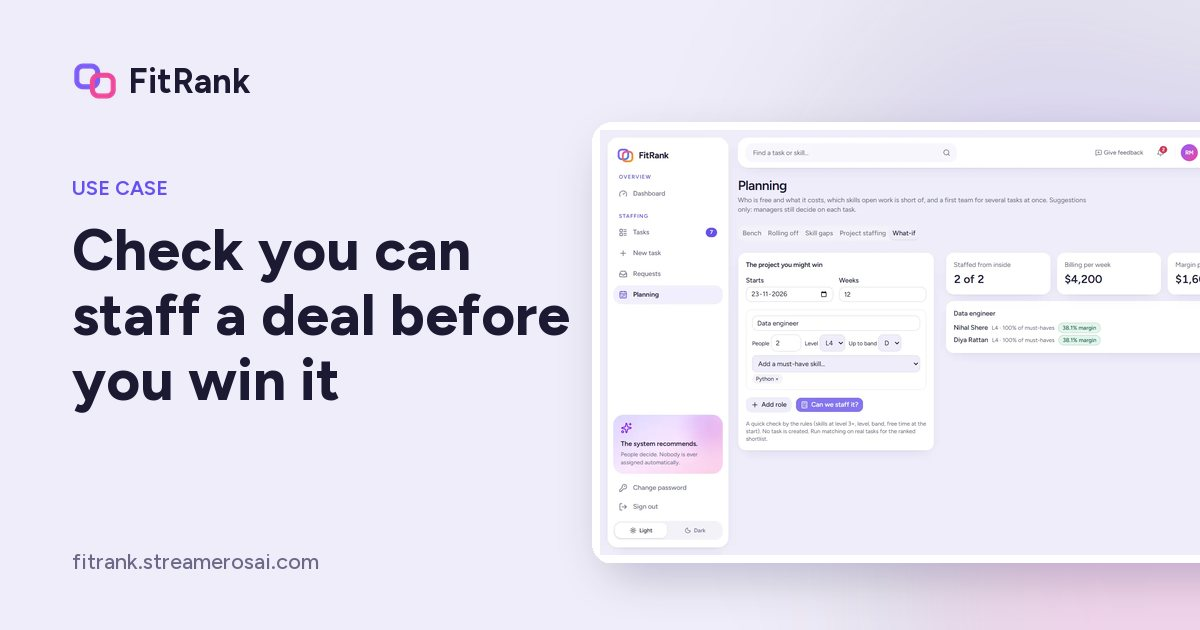
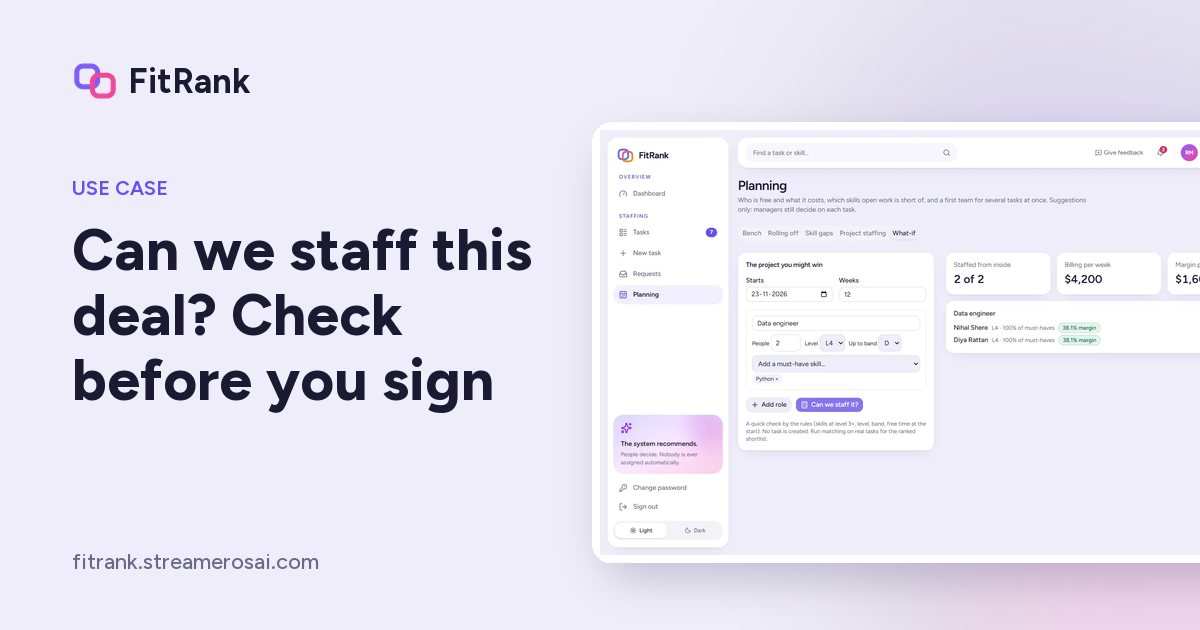
feat(use-cases): deep articles for pre-sales-staffing, fair-auditable-decisions and decision-api

Changed region(s): [[0.0617, 0.3619, 0.4933, 0.5429], [0.0617, 0.573, 0.4317, 0.6635]]

diff --git a/src/lib/usecase-articles-c.ts b/src/lib/usecase-articles-c.ts
@@ -1,0 +1,177 @@
+import type { Block } from "@/lib/blog";
+
+export const ARTICLES_C: Record<string, Block[]> = {
+  "pre-sales-staffing": [
+    { type: "tldr", text: "Before you promise a start date on a deal, check it against the people you really have: list the roles, levels, must-have skills and the date, then see who would be free and qualified by then and what the work would earn per week. FitRank's what-if check does this with rules only, in seconds, and creates nothing, so you can test as many versions of the deal as you like." },
+    { type: "h2", text: "The promise made before anyone checked" },
+    { type: "p", text: "Pre-sales and account teams are rewarded for closing, so a start date often gets agreed in the room: we can begin in six weeks. Delivery learns of it afterwards. If the bench cannot cover the roles by then, the options are a rushed hire, a late start, or borrowing people from other work. All three cost more than the check that would have prevented them." },
+    { type: "p", text: "The check is not complicated in principle. It is hard in practice because the information sits with resource managers, in a sheet or in their heads, and asking them takes a day. So the question gets skipped, or answered with optimism." },
+    { type: "h2", text: "An illustrative example: a four-role proposal" },
+    { type: "p", text: "The deal and the numbers are invented. No real client or company is described." },
+    { type: "p", text: "A prospect wants a team for a data platform project starting in six weeks and running for five months: one architect, two senior engineers and one tester. The account lead describes the roles: level, the highest cost band the deal can carry, and the must-have skills for each. The check returns that three of the four roles can be staffed from inside by the start date, with named people free in time. The architect role has nobody free and qualified until three weeks after the start." },
+    { type: "p", text: "Now the account lead has useful choices. She can propose a start date three weeks later, or open the deal with a plan to hire an architect now, or bring in a contractor for the first month. She also has the weekly billing and margin of the three staffed roles. She has made no promise yet, and nobody was reserved or alarmed by her question." },
+    { type: "h2", text: "A pre-sales check you can do by hand" },
+    { type: "ol", items: [
+      "Write the deal as roles, not as a headcount: for each, the level, the must-have skills, how many people and the highest cost you can carry.",
+      "Fix the start date and the length. A role that is free for three of five months is not free.",
+      "For each role, find who is free by the start date. Use end dates of current allocations, not hopes.",
+      "Keep only people who meet the must-have skills and level.",
+      "Count roles you can fill, and note the first date you could fill the rest.",
+      "Work out billing and margin per week from your rate card, so the commercial side sees the effect of staffing choices.",
+      "Rerun it for a different start date. The date is the cheapest lever you have.",
+    ] },
+    { type: "h2", text: "How FitRank handles it" },
+    { type: "ul", items: [
+      "You enter the start date, the length, and for each role the number of people, level, highest cost band and must-have skills.",
+      "FitRank checks who would be free and qualified in time, using rules only. That makes the answer instant and repeatable, which is what a what-if needs. The model's ranking is kept for real tasks, where a manager reviews it.",
+      "The result shows how many roles you can staff from inside, the people who could fill them, and billing and margin per week.",
+      "Nothing is created or reserved. No task is added and nobody is held, so you can try as many scenarios as you like. When the deal is won, you create the real task and run matching. See [what-if staffing for pre-sales](/features/what-if-staffing/).",
+      "For the margin, FitRank uses your rate card and margin target; salaries are not stored. See [employee value and client profiles](/features/employee-value/).",
+    ] },
+    { type: "p", text: "A what-if tells you whether a role could be staffed, not who is best for it. That needs a real task and a match run. The step from one to the other is described in [how to find the right person for an open task](/use-cases/staff-open-tasks/)." },
+    { type: "h2", text: "A checklist before you commit a date" },
+    { type: "ul", items: [
+      "Each role is written with level, must-have skills, count and cost ceiling.",
+      "Start date and length are stated, and checked against end dates of current work.",
+      "Roles that cannot be filled from inside have a plan and a date: hire, contractor or later start.",
+      "Margin per week has been looked at by someone who owns the price.",
+      "A second scenario was tried with a different start date.",
+      "Delivery was told about the possible deal before the date was agreed.",
+    ] },
+    { type: "h2", text: "Common mistakes" },
+    { type: "ul", items: [
+      "Checking headcount, not roles. Ten free people do not help if none has the skill.",
+      "Assuming people on notice or rolling off will be free. Use the dates in the system.",
+      "Reserving people for a deal that may not close. Holds become bench in disguise.",
+      "Forgetting the cost ceiling. A role you can fill only by an expensive person may not be worth taking.",
+      "Treating one yes as final. If the deal changes shape, run the check again.",
+    ] },
+    { type: "h2", text: "When FitRank is not the right tool" },
+    { type: "p", text: "The what-if uses rules only, so it says who could be available and qualified, not how well each person would do. It checks who is free and qualified inside the company, so it will not tell you what a contractor or outside hire could cover. It reads availability from allocations in the system, so it is only as accurate as those are. If you bid on very large programmes, a capacity-planning tool built for forecasting hundreds of roles over years is a better fit. For a first sense of what your skills inventory looks like, the [skill matrix template](/tools/employee-skill-matrix-template/) is a free start." },
+    { type: "h2", text: "Questions people ask" },
+    { type: "faq", items: [
+      { q: "Does a what-if check reserve people?", a: "No. It creates no task and holds nobody. Run matching on a real task when the deal is won." },
+      { q: "Why rules only?", a: "A what-if check needs to be instant and repeatable. The model's ranking runs on real tasks, where a manager reviews it." },
+      { q: "What do I need to enter?", a: "The start date, the length, and for each role the number of people, level, highest cost band and must-have skills." },
+      { q: "What does the result show?", a: "How many roles you can staff from inside, the people who could fill them, and billing and margin per week." },
+      { q: "Does it use salaries?", a: "No. Margin comes from your rate card by cost band. Salaries are never stored." },
+    ] },
+  ],
+
+  "fair-auditable-decisions": [
+    { type: "tldr", text: "To audit AI staffing decisions, you need three things on record: what the system was given and what it was never given, what it recommended and why, and what a person did with the recommendation. Then test whether qualified people in different groups are recommended at similar rates. FitRank keeps that record in an exportable audit CSV and runs the fairness test, using the four-fifths rule and a significance test." },
+    { type: "h2", text: "Who asks, and why they cannot get an answer" },
+    { type: "p", text: "Leadership, HR and compliance teams are the ones asked: why did the system suggest this person? Does it treat groups differently? Can we show it to an auditor, a works council or a client's procurement team? With most AI tools the honest answer is that nobody knows, because the tool returns a score and keeps nothing about how it got there." },
+    { type: "p", text: "That gap matters more for decisions about people than for most software. A hiring or staffing tool shapes who gets the interesting project, who gets seen, and who sits on the bench. Trust in such a tool has to be earned with records, not assurances." },
+    { type: "h2", text: "An illustrative example: an auditor's three questions" },
+    { type: "p", text: "The scenario is invented. It describes a kind of review, not a real one." },
+    { type: "p", text: "An internal auditor selects ten staffing decisions from the last quarter and asks three things for each. What information did the system use about the person? Which model produced the recommendation, and what did it say about the alternatives? What did the manager do, and why? If the answers sit in three systems and one manager's memory, the audit takes days and ends in doubt. If every recommendation is stored with its model, version, probabilities, band and the manager's action, the auditor exports one file and reads the answers." },
+    { type: "p", text: "The auditor then asks a fourth question that no single decision can answer: across everyone qualified for such work, were people in one location recommended less often than equally qualified people in another? That needs a rate comparison with enough data behind it to mean something." },
+    { type: "h2", text: "A method for auditing AI-assisted decisions" },
+    { type: "ol", items: [
+      "Define what must never be used. Write the list: protected characteristics, photos, anything that identifies a person in a way unrelated to work.",
+      "Check that the list is enforced in the system, not just in policy: what is stored, what is sent to any external AI, and what is used as a signal.",
+      "Keep a per-decision record: inputs, model and version, output, human action and time.",
+      "Version every setting that changes outcomes, such as cut-offs and models, with who changed it and why.",
+      "Compare recommendation rates between groups of qualified people, but only once there are enough decisions for the rate to mean something.",
+      "Treat a flagged gap as a question for a human, not a verdict. Investigate the cause.",
+      "Repeat on a schedule, not only after a complaint.",
+    ] },
+    { type: "h2", text: "How FitRank handles it" },
+    { type: "ul", items: [
+      "Protected attributes are never stored, sent to AI or used as signals: gender, age, religion, caste, ethnicity, nationality, marital status, disability, health, sexual orientation, political views, photos and salaries. Names and employee codes are never sent to a language model. See [security and access](/features/security-and-access/).",
+      "Every recommendation records the model, versions, score, band and what the manager did. All of it can be exported as an audit CSV, and sign-ins, task changes, decisions, thresholds, model switches, imports and outcomes are audited too.",
+      "The fairness view compares recommendation rates by location and practice among qualified people, using the four-fifths rule and a significance test. A group recommended at less than 80 per cent of the best group's rate is flagged for a look when the test says the gap is unlikely to be chance. Rates appear only when there are enough decisions. See [health and fairness dashboards](/features/health-and-fairness/).",
+      "The health view shows how often managers agree with the model by band, week and model version, six-week placement outcomes and the reasons managers gave when rejecting suggestions.",
+      "Thresholds and model versions are controlled by admins and versioned. A model that ranks worse than the current one on held-out tests is refused unless an admin overrides it on purpose, and past runs keep the model and cut-offs they used. See [thresholds and model versions](/features/model-governance/).",
+      "Every company's data is separated by row-level security in the database, and access follows roles.",
+    ] },
+    { type: "p", text: "The human side is part of the design: the manager makes every final call, and the record shows the model's answer next to what the person did. For how that stance works in practice, read [how a recommendation is made](/how-it-works/)." },
+    { type: "h2", text: "A checklist for your own review" },
+    { type: "ul", items: [
+      "The list of attributes that must never be used is written and checked against the data actually stored.",
+      "Every recommendation has an owner, a model version and a recorded human action.",
+      "Settings that change outcomes are versioned with a reason.",
+      "A comparison of recommendation rates for qualified people is run on a schedule and has a minimum sample size.",
+      "A flagged gap has an owner and a written follow-up.",
+      "The audit export has been opened and read by someone outside the team that runs the tool.",
+    ] },
+    { type: "h2", text: "Common mistakes" },
+    { type: "ul", items: [
+      "Believing that leaving out protected attributes proves fairness. Other fields can still be correlated, which is why the outcome comparison exists.",
+      "Comparing rates for everyone, not for qualified people. The question is whether equally qualified people get recommended equally.",
+      "Reading a small sample as a result. A rate from a handful of decisions is noise.",
+      "Treating the four-fifths rule as a legal test. It is a commonly used rule of thumb that flags a gap for investigation; it is not a legal finding either way.",
+      "Keeping the audit trail in a place only the tool owner can open.",
+    ] },
+    { type: "h2", text: "When FitRank is not the right tool" },
+    { type: "p", text: "The fairness view groups people by location and practice because those are recorded; since protected attributes are not stored, it cannot test rates by gender, age or similar groups, and a regulator that requires that cannot be answered from this data. FitRank gives you evidence for an audit; it does not certify anything, and it is not legal advice. It covers decisions made in FitRank, so decisions made outside it are not in the trail. And if you need a deep statistical model-risk review, that is a separate piece of work." },
+    { type: "h2", text: "Questions people ask" },
+    { type: "faq", items: [
+      { q: "Which groups does the fairness check compare?", a: "Recommendation rates by location and practice among qualified people. Protected attributes such as gender, age and religion are never stored, so they cannot be used." },
+      { q: "What is the four-fifths rule?", a: "A group recommended at less than 80% of the best group's rate is flagged for a look, when a significance test says the gap is unlikely to be chance." },
+      { q: "What is in the audit export?", a: "A CSV of every recommendation and decision: model, versions, score, band and what the manager did." },
+      { q: "Can a worse model be switched on by accident?", a: "No. A model that ranks worse than the current one on held-out tests is refused unless an admin overrides it on purpose." },
+      { q: "Does AI make the final decision?", a: "No. Nothing is assigned automatically. A manager accepts or rejects each recommendation, and the decision is recorded." },
+    ] },
+  ],
+
+  "decision-api": [
+    { type: "tldr", text: "If your own software needs an AI judgement, ask a question with a fixed list of options and take back a probability for each option, rather than parsing free text from a chatbot. FitRank's Decision API does that: you call a named question with its inputs, get a probability per option or an abstain, and every call is logged, rate-limited and counted against a monthly budget." },
+    { type: "h2", text: "The problem with free text from a chatbot" },
+    { type: "p", text: "Engineering and platform teams add AI to internal tools in a hurry: a prompt, a call, a string back. Then the string has to be parsed, the parsing breaks on a Tuesday, costs grow with usage, and nobody can say whether last month's answers were better than this month's. The answer cannot be tested because it was never a defined thing." },
+    { type: "p", text: "Many of these calls are not really open-ended. The code needs one of a few outcomes: approve or not, urgent or not, cheap model or strong model. Those are classifications, and they deserve an interface that returns a classification." },
+    { type: "h2", text: "An illustrative example: approving a tool action" },
+    { type: "p", text: "The service and the numbers are invented to show the shape of a call." },
+    { type: "p", text: "An internal agent wants to run a database export. Before it does, your code asks a typed question: should this action be approved? The options are fixed: yes or no. Back comes a probability for each, say a high one for yes and a small one for no. Your code has a rule that says above a chosen level it proceeds; between two levels it asks a person; below, it stops. If the model is unsure, the answer is an abstain, and your code treats an abstain as a reason to ask a person. The behaviour is something an engineer can test, because the output is a number and a list of options, not a paragraph." },
+    { type: "h2", text: "How to design a typed AI call yourself" },
+    { type: "ol", items: [
+      "Write the question so that it has a closed list of answers. If you cannot list the options, it is not a decision yet.",
+      "Declare the inputs the question depends on and nothing else.",
+      "Return a probability for every option, and allow abstaining when the model should not answer.",
+      "Decide thresholds in your code, not in the model: what probability proceeds, what asks a human, what stops.",
+      "Log every call with its inputs, output and version, so you can replay and compare.",
+      "Cap spend and rate per project so a runaway loop cannot cost a month's budget in an hour.",
+      "Keep sensitive attributes out of the inputs and refuse them if they appear.",
+    ] },
+    { type: "h2", text: "How FitRank handles it" },
+    { type: "ul", items: [
+      "The same typed-decision engine that powers matching is exposed to your other systems. See [the Decision API](/features/decision-api/).",
+      "In the admin area you create a project and an API key. Each project has its own budget and rate limit.",
+      "You call a question by name with its inputs, from your service or the Python client. Built-in questions include helping an AI agent choose a cheap or strong model, approve a tool action and check a result.",
+      "Each question has a fixed list of options. You get back a probability for each, or an abstain when the model is not sure.",
+      "Inputs that state protected attributes are refused.",
+      "Every call is logged, rate-limited and counted against the project's monthly budget.",
+      "The answers come from FitRank's own small model, trained for exactly these questions, running on an ordinary CPU rather than a hosted chatbot. See [the in-house decision model](/features/in-house-decision-model/).",
+    ] },
+    { type: "p", text: "The reasoning behind typed answers is covered in [how it works](/how-it-works/), and the accuracy numbers for matching, which use the same model family, are on the [results page](/results/)." },
+    { type: "h2", text: "A checklist for a typed AI call" },
+    { type: "ul", items: [
+      "The question has a closed list of options and a named owner.",
+      "The inputs are declared, and none is a sensitive attribute.",
+      "Your code, not the model, decides what each probability range does.",
+      "An abstain has a defined behaviour.",
+      "Calls are logged with inputs, outputs and version.",
+      "Rate limit and monthly budget exist per project.",
+      "There is a test set of known cases, and you run it when anything changes.",
+    ] },
+    { type: "h2", text: "Common mistakes" },
+    { type: "ul", items: [
+      "Using a free-text answer and parsing it with a regular expression. It works until the wording shifts.",
+      "Treating a probability as a certainty. Choose thresholds from your own tolerance for mistakes.",
+      "Ignoring abstain. If it has no path in your code, you have simply hidden the uncertainty.",
+      "Skipping the budget cap, then discovering a retry loop in the bill.",
+      "Putting a person's identifying details in an input when the question does not need them.",
+    ] },
+    { type: "h2", text: "When FitRank is not the right tool" },
+    { type: "p", text: "The Decision API answers bounded questions with fixed options. It does not write text, summarise documents or hold a conversation, so if you need generation, you need a general language model. It is part of the Enterprise plan, with per-project keys and budgets, so it is not the way to try FitRank on a small pilot. And the built-in questions cover specific jobs; a question of your own that is far from staffing or agent control needs discussing with the team first." },
+    { type: "h2", text: "Questions people ask" },
+    { type: "faq", items: [
+      { q: "Can the API return free text?", a: "No. It returns a probability for each of the question's options, or an abstain. That is what makes the answers testable." },
+      { q: "Which plan includes the Decision API?", a: "Enterprise, with per-project keys and budgets." },
+      { q: "What happens when the model is not sure?", a: "You get an abstain instead of a forced answer, and your code decides what to do with it." },
+      { q: "Is every call logged?", a: "Yes. Calls are logged, rate-limited and counted against the project's monthly budget." },
+      { q: "Can I send protected attributes as inputs?", a: "No. Inputs that state protected attributes are refused." },
+    ] },
+  ],
+};

diff --git a/src/lib/content.ts b/src/lib/content.ts
@@ -194,9 +194,9 @@ export const USE_CASES: UseCase[] = [
   },
   {
     slug: "pre-sales-staffing",
-    title: "Check you can staff a deal before you win it",
+    title: "Can we staff this deal? Check before you sign",
     who: "Pre-sales and account teams",
-    description: "Run a what-if staffing check for a prospective deal using rules only, without creating a task.",
+    description: "Check a prospective deal against the real bench before you promise a start date: roles, skills, who is free in time, and margin per week.",
     problem: "Deals get signed with start dates nobody checked against the bench.",
     how: [
       "Describe the roles and start date of the prospective deal.",
@@ -209,9 +209,9 @@ export const USE_CASES: UseCase[] = [
   },
   {
     slug: "fair-auditable-decisions",
-    title: "Make staffing decisions you can audit and defend",
+    title: "How to audit AI staffing decisions for fairness",
     who: "Leadership, HR and compliance",
-    description: "Keep a full trail of every recommendation, test recommendation rates for fairness, and never use protected attributes.",
+    description: "What to record, what to leave out and how to test recommendation rates, so AI-assisted staffing decisions can be explained to an auditor.",
     problem: "AI hiring and staffing tools are hard to trust when nobody can see why they suggested someone, or whether they treat groups differently.",
     how: [
       "Protected attributes such as gender, age, religion and caste are never stored, sent to AI or used as signals.",
@@ -224,9 +224,9 @@ export const USE_CASES: UseCase[] = [
   },
   {
     slug: "decision-api",
-    title: "Add typed AI decisions to your own tools",
+    title: "Typed AI decisions through an API",
     who: "Engineering and platform teams",
-    description: "Ask bounded questions over an API and get a probability for every option, with keys, budgets and rate limits per project.",
+    description: "Ask your own tools a question with fixed options and get a probability for each, not free text. Keys, budgets and logs per project.",
     problem: "Calling a chatbot from internal tools returns free text you can't test, cap or audit.",
     how: [
       "Create a project and an API key in the admin area.",

diff --git a/src/lib/usecase-articles.ts b/src/lib/usecase-articles.ts
@@ -4,8 +4,10 @@
 import type { Block } from "@/lib/blog";
 import { ARTICLES_A } from "@/lib/usecase-articles-a";
 import { ARTICLES_B } from "@/lib/usecase-articles-b";
+import { ARTICLES_C } from "@/lib/usecase-articles-c";
 
 export const UC_ARTICLES: Record<string, Block[]> = {
   ...ARTICLES_A,
   ...ARTICLES_B,
+  ...ARTICLES_C,
 };
